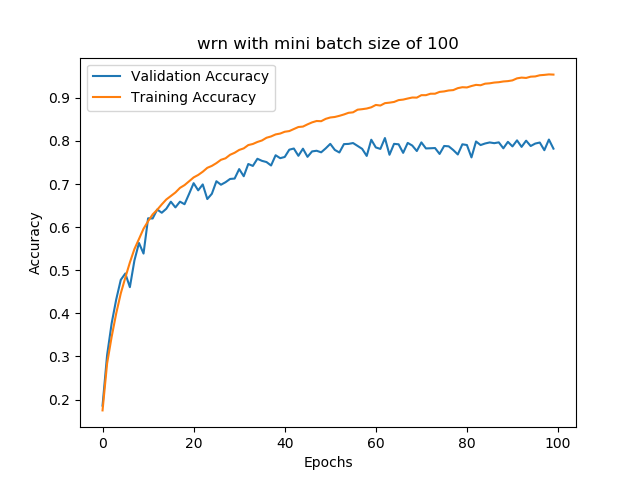
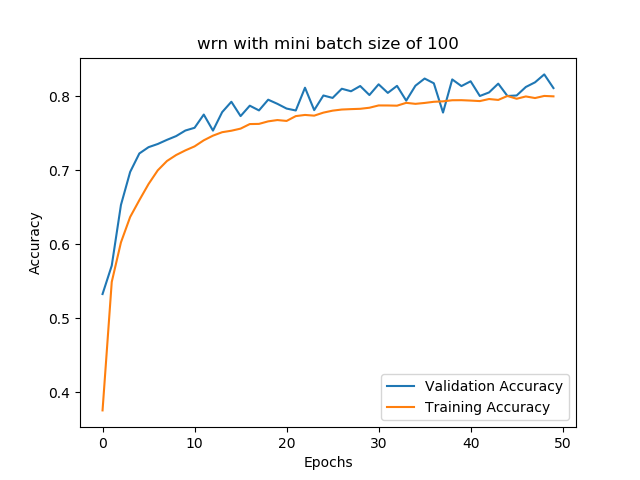
Added new networks.

diff --git a/src/createNeuralNetworkModel.py b/src/createNeuralNetworkModel.py
@@ -32,7 +32,8 @@ class NeuralNetwork:
             print("Built: VGG19")
         elif name == "wrn.h5":
             init = (32, 32, 3)
-            model = self.create_wide_residual_network(init, nb_classes=10, N=2, k=2, dropout=0.25)
+            model = self.create_wide_residual_network(init, nb_classes=10, N=4, k=8, dropout=0.0)
+            model.compile(loss="categorical_crossentropy", optimizer="adam", metrics=["acc"])
             model.summary()
             print("Built: WRN")
         elif name == "custom.h5":
@@ -237,51 +238,108 @@ class NeuralNetwork:
             x = conv(x)
         return x
 
-    def expand_conv(self, init, base, k, stride):
+    weight_decay = 0.0005
+
+    def initial_conv(self, input):
+        x = Convolution2D(16, (3, 3), padding='same', kernel_initializer='he_normal',
+                          W_regularizer=l2(weight_decay),
+                          use_bias=False)(input)
+
         channel_axis = 1 if K.image_data_format() == "channels_first" else -1
 
-        shortcut = BatchNormalization(axis=channel_axis, momentum=0.1, epsilon=1e-5, gamma_initializer='uniform')(init)
-        shortcut = Activation('relu')(shortcut)
+        x = BatchNormalization(axis=channel_axis, momentum=0.1, epsilon=1e-5, gamma_initializer='uniform')(x)
+        x = Activation('relu')(x)
+        return x
 
-        x = ZeroPadding2D((1, 1))(shortcut)
-        x = Convolution2D(base * k, (3, 3), strides=stride, padding='valid', kernel_initializer='he_normal',
-                          use_bias=False)(x)
+    def expand_conv(self, init, base, k, strides=(1, 1)):
+        x = Convolution2D(base * k, (3, 3), padding='same', strides=strides, kernel_initializer='he_normal',
+                          W_regularizer=l2(weight_decay),
+                          use_bias=False)(init)
+
+        channel_axis = 1 if K.image_data_format() == "channels_first" else -1
 
         x = BatchNormalization(axis=channel_axis, momentum=0.1, epsilon=1e-5, gamma_initializer='uniform')(x)
         x = Activation('relu')(x)
 
-        x = ZeroPadding2D((1, 1))(x)
-        x = Convolution2D(base * k, (3, 3), strides=(1, 1), padding='valid', kernel_initializer='he_normal',
+        x = Convolution2D(base * k, (3, 3), padding='same', kernel_initializer='he_normal',
+                          W_regularizer=l2(weight_decay),
                           use_bias=False)(x)
 
-        # Add shortcut
+        skip = Convolution2D(base * k, (1, 1), padding='same', strides=strides, kernel_initializer='he_normal',
+                             W_regularizer=l2(weight_decay),
+                             use_bias=False)(init)
 
-        shortcut = Convolution2D(base * k, (1, 1), strides=stride, padding='same', kernel_initializer='he_normal',
-                                 use_bias=False)(shortcut)
-
-        m = Add()([x, shortcut])
+        m = Add()([x, skip])
 
         return m
 
-    def conv_block(self, input, n, stride, k=1, dropout=0.0):
+    def conv1_block(self, input, k=1, dropout=0.0):
         init = input
 
         channel_axis = 1 if K.image_data_format() == "channels_first" else -1
 
         x = BatchNormalization(axis=channel_axis, momentum=0.1, epsilon=1e-5, gamma_initializer='uniform')(input)
         x = Activation('relu')(x)
-        x = Convolution2D(n * k, (3, 3), strides=(1, 1), padding='same', kernel_initializer='he_normal', use_bias=False)(x)
+        x = Convolution2D(16 * k, (3, 3), padding='same', kernel_initializer='he_normal',
+                          W_regularizer=l2(weight_decay),
+                          use_bias=False)(x)
 
         if dropout > 0.0: x = Dropout(dropout)(x)
 
         x = BatchNormalization(axis=channel_axis, momentum=0.1, epsilon=1e-5, gamma_initializer='uniform')(x)
         x = Activation('relu')(x)
-        x = Convolution2D(n * k, (3, 3), strides=(1, 1), padding='same', kernel_initializer='he_normal', use_bias=False)(x)
+        x = Convolution2D(16 * k, (3, 3), padding='same', kernel_initializer='he_normal',
+                          W_regularizer=l2(weight_decay),
+                          use_bias=False)(x)
 
         m = Add()([init, x])
         return m
 
-    def create_wide_residual_network(self, input_dim, nb_classes=10, N=4, k=1, dropout=0.0):
+    def conv2_block(self, input, k=1, dropout=0.0):
+        init = input
+
+        channel_axis = 1 if K.image_dim_ordering() == "th" else -1
+
+        x = BatchNormalization(axis=channel_axis, momentum=0.1, epsilon=1e-5, gamma_initializer='uniform')(input)
+        x = Activation('relu')(x)
+        x = Convolution2D(32 * k, (3, 3), padding='same', kernel_initializer='he_normal',
+                          W_regularizer=l2(weight_decay),
+                          use_bias=False)(x)
+
+        if dropout > 0.0: x = Dropout(dropout)(x)
+
+        x = BatchNormalization(axis=channel_axis, momentum=0.1, epsilon=1e-5, gamma_initializer='uniform')(x)
+        x = Activation('relu')(x)
+        x = Convolution2D(32 * k, (3, 3), padding='same', kernel_initializer='he_normal',
+                          W_regularizer=l2(weight_decay),
+                          use_bias=False)(x)
+
+        m = Add()([init, x])
+        return m
+
+    def conv3_block(self, input, k=1, dropout=0.0):
+        init = input
+
+        channel_axis = 1 if K.image_dim_ordering() == "th" else -1
+
+        x = BatchNormalization(axis=channel_axis, momentum=0.1, epsilon=1e-5, gamma_initializer='uniform')(input)
+        x = Activation('relu')(x)
+        x = Convolution2D(64 * k, (3, 3), padding='same', kernel_initializer='he_normal',
+                          W_regularizer=l2(weight_decay),
+                          use_bias=False)(x)
+
+        if dropout > 0.0: x = Dropout(dropout)(x)
+
+        x = BatchNormalization(axis=channel_axis, momentum=0.1, epsilon=1e-5, gamma_initializer='uniform')(x)
+        x = Activation('relu')(x)
+        x = Convolution2D(64 * k, (3, 3), padding='same', kernel_initializer='he_normal',
+                          W_regularizer=l2(weight_decay),
+                          use_bias=False)(x)
+
+        m = Add()([init, x])
+        return m
+
+    def create_wide_residual_network(self, input_dim, nb_classes=100, N=2, k=1, dropout=0.0, verbose=1):
         """
         Creates a Wide Residual Network with specified parameters
         :param input: Input Keras object
@@ -295,43 +353,51 @@ class NeuralNetwork:
         :param verbose: Debug info to describe created WRN
         :return:
         """
-        ip = Input(shape=input_dim)
-
-        x = ZeroPadding2D((1, 1))(ip)
-
         channel_axis = 1 if K.image_data_format() == "channels_first" else -1
 
-        x = Convolution2D(16, (3, 3), padding='same', kernel_initializer='he_normal', use_bias=False)(x)
+        ip = Input(shape=input_dim)
 
+        x = self.initial_conv(ip)
         nb_conv = 4
 
-        x = self.expand_conv(x, 16, k, stride=(1, 1))
+        x = self.expand_conv(x, 16, k)
+        nb_conv += 2
 
         for i in range(N - 1):
-            x = self.conv_block(x, n=16, stride=(1, 1), k=k, dropout=dropout)
+            x = self.conv1_block(x, k, dropout)
             nb_conv += 2
 
-        x = self.expand_conv(x, 32, k, stride=(2, 2))
+        x = BatchNormalization(axis=channel_axis, momentum=0.1, epsilon=1e-5, gamma_initializer='uniform')(x)
+        x = Activation('relu')(x)
+
+        x = self.expand_conv(x, 32, k, strides=(2, 2))
+        nb_conv += 2
 
         for i in range(N - 1):
-            x = self.conv_block(x, n=32, stride=(2, 2), k=k, dropout=dropout)
+            x = self.conv2_block(x, k, dropout)
             nb_conv += 2
 
-        x = self.expand_conv(x, 64, k, stride=(2, 2))
+        x = BatchNormalization(axis=channel_axis, momentum=0.1, epsilon=1e-5, gamma_initializer='uniform')(x)
+        x = Activation('relu')(x)
+
+        x = self.expand_conv(x, 64, k, strides=(2, 2))
+        nb_conv += 2
 
         for i in range(N - 1):
-            x = self.conv_block(x, n=64, stride=(2, 2), k=k, dropout=dropout)
+            x = self.conv3_block(x, k, dropout)
             nb_conv += 2
+
+        x = BatchNormalization(axis=channel_axis, momentum=0.1, epsilon=1e-5, gamma_initializer='uniform')(x)
+        x = Activation('relu')(x)
 
         x = AveragePooling2D((8, 8))(x)
         x = Flatten()(x)
 
-        x = Dense(nb_classes, activation='softmax')(x)
+        x = Dense(nb_classes, W_regularizer=l2(weight_decay), activation='softmax')(x)
 
         model = Model(ip, x)
 
-        model.compile(loss=losses.categorical_crossentropy, optimizer='SGD', metrics=['acc'])
-        model.summary()
+        if verbose: print("Wide Residual Network-%d-%d created." % (nb_conv, k))
         return model
 
     def createAlexNet(self):
@@ -340,8 +406,17 @@ class NeuralNetwork:
         model = Sequential()
 
         # 1st Convolutional Layer
-        model.add(Conv2D(filters=96, input_shape=(32, 32, 3), kernel_size=(5, 5),
-                         strides=(4, 4), padding='valid'))
+        model.add(Conv2D(filters=96, input_shape=(32, 32, 3), kernel_size=(3, 3),
+                         strides=(1, 1), padding='valid'))
+        model.add(Activation('relu'))
+        # Pooling
+        model.add(MaxPooling2D(pool_size=(2, 2), strides=(2, 2), padding='valid'))
+        # Batch Normalisation before passing it to the next layer
+        model.add(BatchNormalization())
+
+        # 2st Convolutional Layer
+        model.add(Conv2D(filters=256, input_shape=(32, 32, 3), kernel_size=(3, 3),
+                         strides=(1, 1), padding='valid'))
         model.add(Activation('relu'))
         # Pooling
         model.add(MaxPooling2D(pool_size=(2, 2), strides=(2, 2), padding='valid'))
@@ -357,7 +432,7 @@ class NeuralNetwork:
         # Passing it to a dense layer
         model.add(Flatten())
         # 1st Dense Layer
-        model.add(Dense(4096, input_shape=(224 * 224 * 3,)))
+        model.add(Dense(2048))
         model.add(Activation('relu'))
         # Add Dropout to prevent overfitting
         model.add(Dropout(0.4))
@@ -365,7 +440,7 @@ class NeuralNetwork:
         model.add(BatchNormalization())
 
         # 2nd Dense Layer
-        model.add(Dense(4096))
+        model.add(Dense(2048))
         model.add(Activation('relu'))
         # Add Dropout
         model.add(Dropout(0.4))

diff --git a/src/NeuralNetwork.py b/src/NeuralNetwork.py
@@ -3,6 +3,7 @@ from keras.models import load_model
 from keras.datasets import cifar10
 from keras.utils import np_utils
 from matplotlib import pyplot
+from keras.preprocessing.image import ImageDataGenerator
 import os
 
 weight_decay = 0.0005
@@ -28,7 +29,18 @@ class NeuralNetwork:
 
     # Fit the model
     def trainModel(self, epochs, batch_size):
-        history = self.model.fit(self.x_train, self.y_train, batch_size=batch_size, validation_data=(self.x_test, self.y_test), epochs=epochs, verbose=1)
+        generator = ImageDataGenerator(rotation_range=10,
+                                       width_shift_range=5. / 32,
+                                       height_shift_range=5. / 32,
+                                       horizontal_flip=True)
+
+        generator.fit(self.x_train, seed=0, augment=True)
+        history = self.model.fit_generator(generator.flow(self.x_train, self.y_train),
+                                           steps_per_epoch=len(self.x_train) // batch_size + 1,
+                                           validation_data=(self.x_test, self.y_test),
+                                           validation_steps=self.x_test.shape[0] // batch_size,
+                                           nb_epoch=epochs,
+                                           verbose=1)
         try:
             os.mkdir('../Results/'+self.name[0: -3])
         except FileExistsError:
@@ -53,17 +65,19 @@ class NeuralNetwork:
         pyplot.savefig('../Results/'+self.name[0: -3]+'/Accuracy.png')
         pyplot.show()
 
-        self.model.save(self.name)
+        model_path = os.path.join(save_dir, self.name)
+        self.model.save(model_path)
 
     # evaluate the model
     def testModel(self):
-        scores = self.model.evaluate(self.x_test, self.y_test, verbose=1)
-        print("Test data Loss is :", scores)
+        loss, acc = self.model.evaluate(self.x_test, self.y_test, verbose=1)
+        print('\nTesting loss: {}, acc: {}\n'.format(loss, acc))
 
 
 if __name__ == "__main__":
     # NeuralNetwork("ResNet56.h5").trainModel(100, 100)
-    NeuralNetwork("wrn.h5").trainModel(100, 100)
+    # NeuralNetwork("wrn.h5").trainModel(50, 100)
     # NeuralNetwork("LeNet.h5").trainModel(100, 500)
     # NeuralNetwork("custom.h5").trainModel(100, 500)
-    # NeuralNetwork("AlexNet.h5").trainModel(100, 50)
+    NeuralNetwork("AlexNet.h5").trainModel(100, 100)
+    # NeuralNetwork("wrn.h5").testModel()

diff --git a/Readme.md b/Readme.md
@@ -1,0 +1,21 @@
+# CIFAR10 with LeNet5, AlexNet, Wide Residual Network in Keras
+
+## Clone this project to your computer:
+
+```
+git clone https://github.com/Mayavan/CIFAR-10_CNN.git
+```
+## Dependencies
+
+Keras
+Python 3.6
+
+## To build the neural model
+
+Uncomment the models you want to build in src/createNeuralNetworkModel.py and run the file.
+The model will be created and saved in src/saved_models
+
+## To train the neural model
+
+Uncomment the model you want to train in the file src/NeuralNetwork.py.
+The results will be plotted and saved in the result folder.
